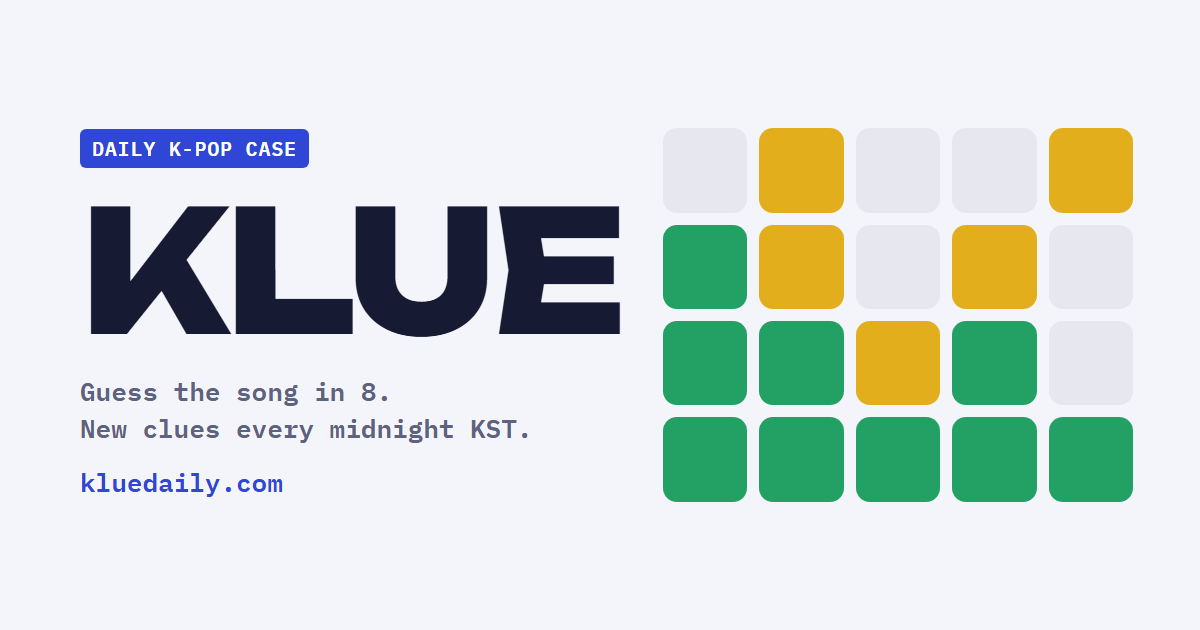
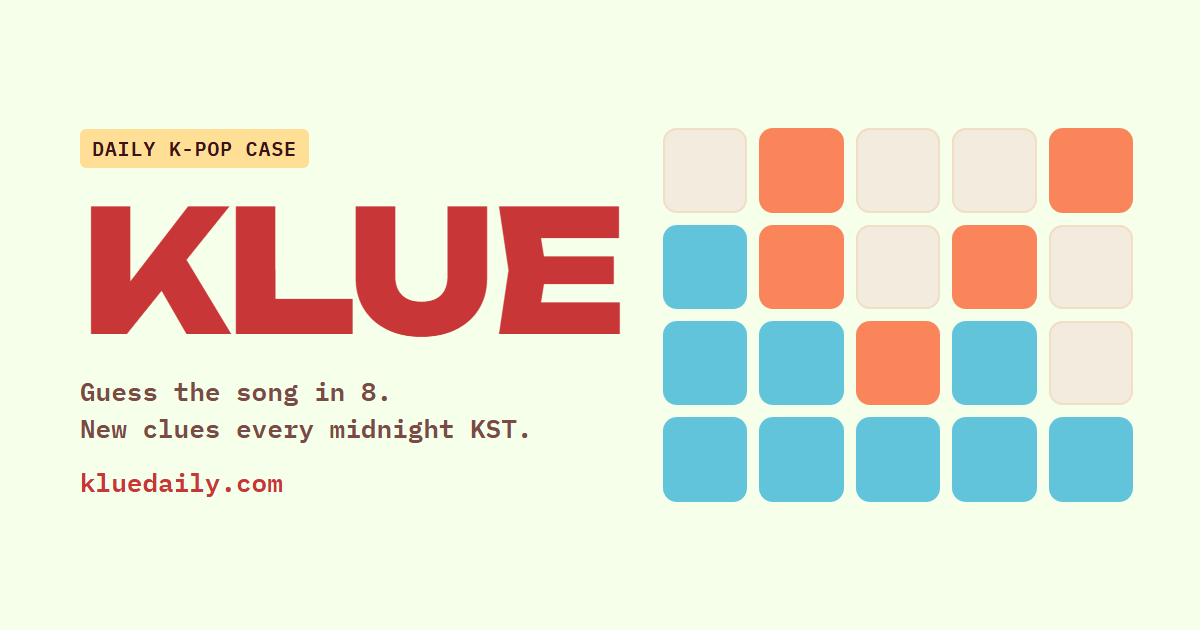
New Klue palette; hide result panel when a new round starts
The end panel's display:flex overrode the hidden attribute, so 'New practice round' left the previous result on screen. Colors move to the Honeydew/Peach/Coral/Tomato/Sky palette (single light theme); exact = sky blue, close = coral, share emoji to match. Favicon, touch icon and OG image re-rendered.

diff --git a/site/assets/style.css b/site/assets/style.css
@@ -1,26 +1,18 @@
-:root {
-  --bg: #f4f5fa; --surface: #ffffff; --ink: #161a33; --muted: #5d6280; --line: #dfe1ec;
-  --accent: #3047d6; --accent-ink: #ffffff;
-  --hit: #23a165; --hit-ink: #ffffff; --near: #e2ae1c; --near-ink: #2b2104; --off: #e6e7ef; --off-ink: #3b3f5c;
-  --shadow: 0 1px 2px rgba(22,26,51,.06), 0 8px 24px rgba(22,26,51,.06);
+/* Klue palette: Honeydew #F6FFEA · Soft Peach #FFDE96 · Coral Glow #FA855A · Tomato Jam #C93638 · Sky Blue #62C4DA.
+   One light theme on purpose (no dark mode). Feedback: Sky Blue = exact, Coral Glow = close, pale sand = off
+   (blue/orange also reads for colour-blind players). */
+:root {
+  --honeydew: #F6FFEA; --peach: #FFDE96; --coral: #FA855A; --tomato: #C93638; --sky: #62C4DA;
+  --bg: var(--honeydew); --surface: #ffffff; --ink: #3a1416; --muted: #7a4a44; --line: #f0dfc4;
+  --accent: var(--tomato); --accent-ink: #ffffff; --soft: var(--peach);
+  --hit: var(--sky); --hit-ink: #0d3640; --near: var(--coral); --near-ink: #3a1416; --off: #f3ebdd; --off-ink: #6b4a42;
+  --shadow: 0 1px 2px rgba(201,54,56,.06), 0 8px 24px rgba(201,54,56,.07);
   --f-display: "Unbounded", "Arial Black", system-ui, sans-serif;
   --f-body: "IBM Plex Sans KR", "Apple SD Gothic Neo", "Malgun Gothic", system-ui, sans-serif;
   --f-mono: "IBM Plex Mono", ui-monospace, Menlo, monospace;
+  color-scheme: light;
 }
-@media (prefers-color-scheme: dark) {
-  :root:not([data-theme="light"]) {
-    --bg: #0f1122; --surface: #181b33; --ink: #eceefa; --muted: #9da2c2; --line: #2a2e4d;
-    --accent: #7b8cff; --accent-ink: #0f1122; --hit: #2fb574; --hit-ink: #06170e; --near: #e7b632; --near-ink: #231a02;
-    --off: #2a2e4a; --off-ink: #c9cce3; --shadow: 0 1px 2px rgba(0,0,0,.3), 0 8px 24px rgba(0,0,0,.25);
-    color-scheme: dark;
-  }
-}
-:root[data-theme="dark"] {
-  --bg: #0f1122; --surface: #181b33; --ink: #eceefa; --muted: #9da2c2; --line: #2a2e4d;
-  --accent: #7b8cff; --accent-ink: #0f1122; --hit: #2fb574; --hit-ink: #06170e; --near: #e7b632; --near-ink: #231a02;
-  --off: #2a2e4a; --off-ink: #c9cce3; --shadow: 0 1px 2px rgba(0,0,0,.3), 0 8px 24px rgba(0,0,0,.25);
-  color-scheme: dark;
-}
+[hidden] { display: none !important; }   /* components below set display:flex, which would otherwise override hidden */
 * { box-sizing: border-box; }
 body { background: var(--bg); color: var(--ink); font-family: var(--f-body); font-size: 15px; line-height: 1.5;
   padding-left: max(16px, env(safe-area-inset-left, 0px)); padding-right: max(16px, env(safe-area-inset-right, 0px)); padding-block: 20px 48px; }
@@ -45,7 +37,8 @@ button:focus-visible, input:focus-visible { outline: 2px solid var(--accent); ou
 .diff b { color: var(--ink); }
 .clues { display: grid; grid-template-columns: repeat(5, minmax(0, 1fr)); gap: 8px; }
 .clue { border: 1px solid var(--line); border-radius: 10px; padding: 8px; display: flex; flex-direction: column; gap: 2px; min-width: 0; }
-.clue.fixed { background: var(--off); border-color: transparent; }
+.clue.fixed { background: var(--soft); border-color: transparent; }
+.clue.fixed .rule { color: var(--ink); opacity: .75; }
 .clue .ic { font-size: 18px; line-height: 1.1; }
 .clue .nm { font-weight: 700; font-size: 13px; line-height: 1.2; }
 .clue .rule { font-size: 11.5px; color: var(--muted); line-height: 1.3; }
@@ -78,6 +71,7 @@ button:focus-visible, input:focus-visible { outline: 2px solid var(--accent); ou
 .cell .k { font-family: var(--f-mono); font-size: 9.5px; letter-spacing: .07em; text-transform: uppercase; opacity: .8; }
 .cell .v { font-size: 13px; font-weight: 600; line-height: 1.2; overflow-wrap: anywhere; font-variant-numeric: tabular-nums; }
 .cell .ar { font-family: var(--f-mono); font-weight: 600; font-size: 13px; line-height: 1; }
+.cell.off { box-shadow: inset 0 0 0 1px var(--line); }
 .cell.hit { background: var(--hit); color: var(--hit-ink); }
 .cell.near { background: var(--near); color: var(--near-ink); }
 .reveal .cell { animation: flip .42s ease both; }
@@ -104,7 +98,8 @@ button:focus-visible, input:focus-visible { outline: 2px solid var(--accent); ou
 /* Standalone-page additions */
 html { -webkit-text-size-adjust: 100%; }
 body { margin: 0; }
-.logo .beta { background: var(--off); color: var(--off-ink); }
+.logo { color: var(--tomato); }
+.logo .beta { background: var(--soft); color: var(--ink); }
 .foot-links { display: flex; flex-wrap: wrap; gap: 6px 16px; }
 .foot a { color: var(--ink); text-underline-offset: 2px; }
 .foot a:hover { color: var(--accent); }

diff --git a/tools/og.html b/tools/og.html
@@ -4,15 +4,15 @@
 <link rel="stylesheet" href="https://fonts.googleapis.com/css2?family=Unbounded:wght@700;800&family=IBM+Plex+Mono:wght@600&display=swap">
 <style>
   html, body { margin: 0; }
-  body { width: 1200px; height: 630px; background: #f4f5fa; color: #161a33; font-family: "Unbounded", sans-serif; overflow: hidden;
+  body { width: 1200px; height: 630px; background: #F6FFEA; color: #C93638; font-family: "Unbounded", sans-serif; overflow: hidden;
     display: grid; grid-template-columns: 1fr 470px; align-items: center; gap: 40px; padding: 0 80px; box-sizing: border-box; }
-  .chip { display: inline-block; font: 600 20px "IBM Plex Mono", monospace; background: #3047d6; color: #fff; border-radius: 6px; padding: 6px 12px; margin-bottom: 26px; letter-spacing: .04em; }
+  .chip { display: inline-block; font: 600 20px "IBM Plex Mono", monospace; background: #FFDE96; color: #3a1416; border-radius: 6px; padding: 6px 12px; margin-bottom: 26px; letter-spacing: .04em; }
   h1 { font-weight: 800; font-size: 170px; line-height: .9; margin: 0 0 26px; letter-spacing: -.03em; }
-  .url { color: #3047d6; margin-top: 18px; }
-  p { font: 600 26px "IBM Plex Mono", monospace; color: #5d6280; margin: 0; line-height: 1.4; }
+  .url { color: #C93638; margin-top: 18px; }
+  p { font: 600 26px "IBM Plex Mono", monospace; color: #7a4a44; margin: 0; line-height: 1.4; }
   .grid { display: grid; grid-template-columns: repeat(5, 1fr); gap: 12px; }
-  .grid i { aspect-ratio: 1; border-radius: 14px; background: #e6e7ef; }
-  .h { background: #23a165 !important; } .n { background: #e2ae1c !important; }
+  .grid i { aspect-ratio: 1; border-radius: 14px; background: #f3ebdd; box-shadow: inset 0 0 0 2px #f0dfc4; }
+  .h { background: #62C4DA !important; box-shadow: none !important; } .n { background: #FA855A !important; box-shadow: none !important; }
 </style></head>
 <body>
   <div>

diff --git a/site/index.html b/site/index.html
@@ -5,7 +5,7 @@
 <meta name="viewport" content="width=device-width, initial-scale=1, viewport-fit=cover">
 <title>Klue: daily K-pop song guessing game</title>
 <meta name="description" content="Guess the mystery K-pop song in 8 tries. Artist is always a clue; the other four change every day at midnight KST. Girl group and boy group filters.">
-<meta name="theme-color" content="#3047d6">
+<meta name="theme-color" content="#F6FFEA">
 <link rel="icon" href="favicon.svg" type="image/svg+xml">
 <link rel="apple-touch-icon" href="apple-touch-icon.png">
 

diff --git a/site/assets/game.js b/site/assets/game.js
@@ -42,7 +42,7 @@ const store = {
 };
 
 // ---------- State ----------
-const EMOJI = { hit: "🟩", near: "🟨", off: "⬜" };
+const EMOJI = { hit: "🟦", near: "🟧", off: "⬜" };   // matches the board: Sky Blue exact, Coral close
 let mode = "daily", filter = "all", puz, guesses = [], over = false;
 const FILTER_LABEL = { all: "", girl: " · Girl groups", boy: " · Boy groups" };
 const input = $("guess"), sugg = $("sugg"), board = $("board"), endEl = $("end"), msg = $("msg");

diff --git a/site/privacy.html b/site/privacy.html
@@ -5,7 +5,7 @@
 <meta name="viewport" content="width=device-width, initial-scale=1">
 <title>Privacy · Klue</title>
 <meta name="description" content="What Klue stores and measures, and what it doesn't.">
-<meta name="theme-color" content="#3047d6">
+<meta name="theme-color" content="#F6FFEA">
 <link rel="icon" href="favicon.svg" type="image/svg+xml">
 <link rel="preconnect" href="https://fonts.googleapis.com">
 <link rel="preconnect" href="https://fonts.gstatic.com" crossorigin>

diff --git a/CLAUDE.md b/CLAUDE.md
@@ -38,7 +38,10 @@ history and launch checklist.
   year, month, season, MV views (tiers), length, genre, label, title letters, title words,
   first letter, last letter, title language, career stage.
 - Month and season never appear on the same day (`CLASH`).
-- Feedback: 🟩 exact, 🟨 close, ⬜ off; ↑↓ for numbers; ← → for letters (alphabetical).
+- Feedback: exact = Sky Blue (🟦 in share text), close = Coral Glow (🟧), off = pale sand (⬜);
+  ↑↓ for numbers; ← → for letters (alphabetical).
+- Look: single light theme from the Klue palette (Honeydew bg, Soft Peach, Coral Glow, Tomato Jam accent,
+  Sky Blue); tokens at the top of `site/assets/style.css`. No dark mode, by choice.
 - Daily reset at **midnight KST**. Case #1 = 2026-11-20 (KST), set by `LAUNCH_DAY` in engine.js
   (temporary launch date). Before launch, `gameDay()` holds at launch day: Case #1 is playable now
   and the first refresh is midnight KST into Nov 21 (Case #2).
